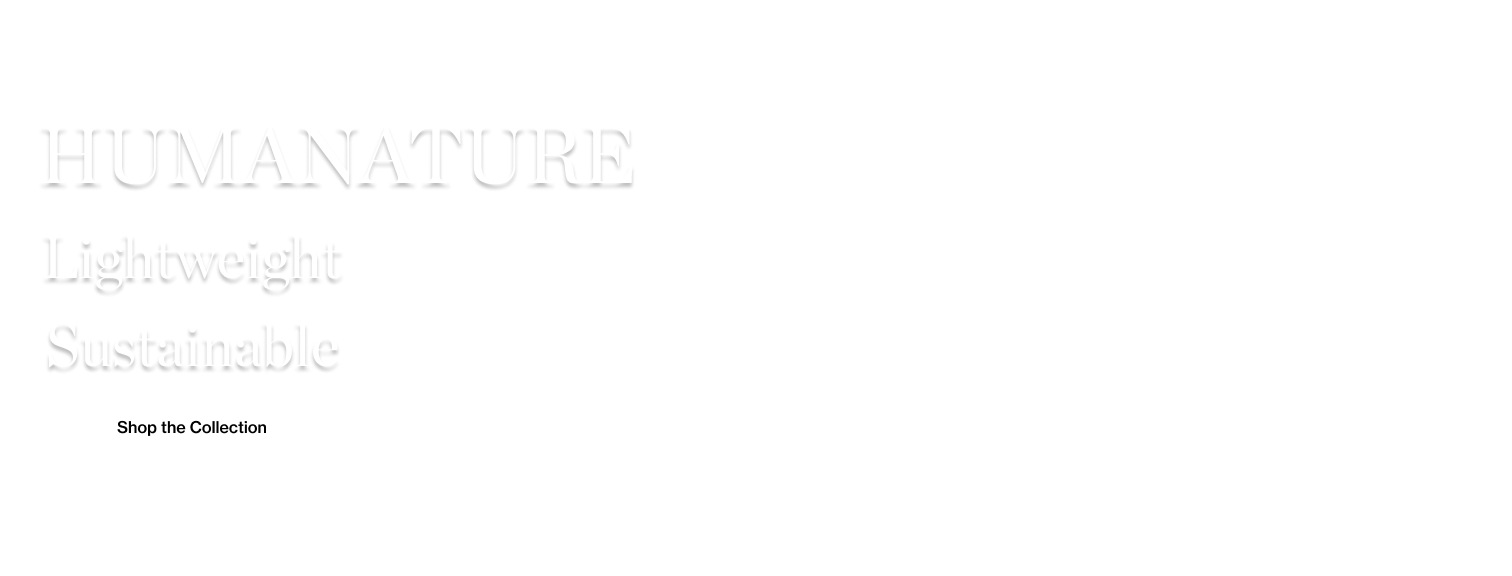
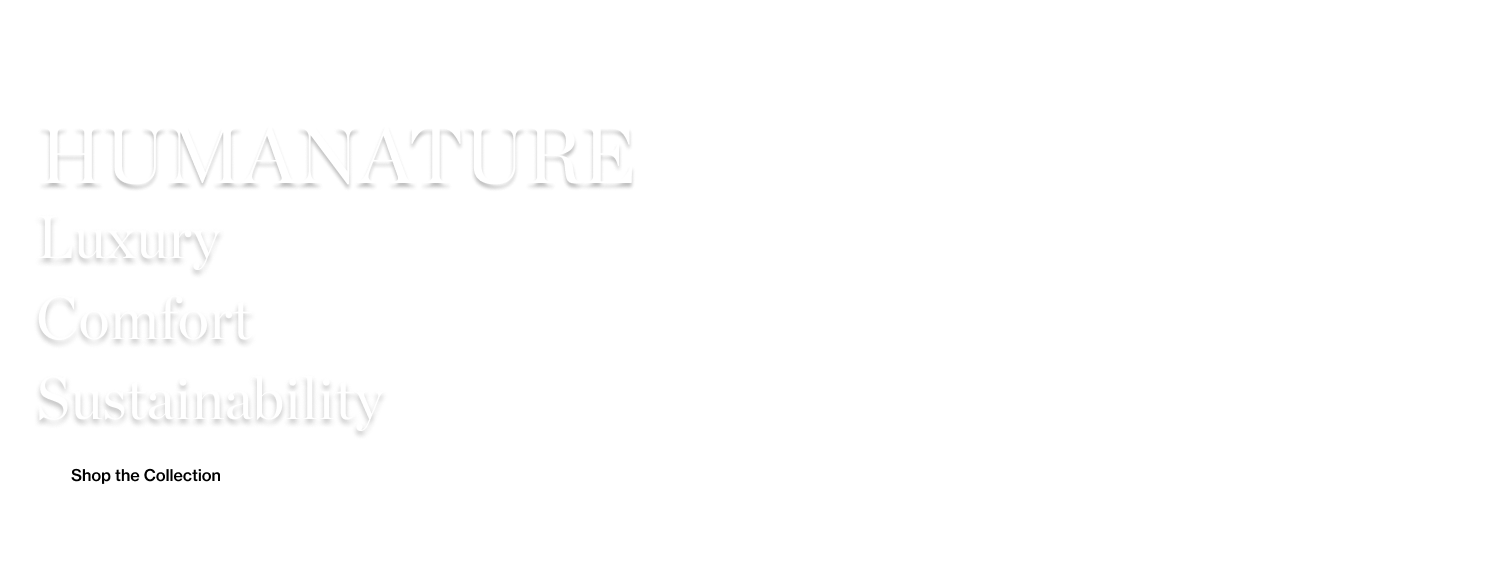
minor changes ux wanted

diff --git a/src/components/HomeHero/HomeHero.js b/src/components/HomeHero/HomeHero.js
@@ -2,18 +2,21 @@ import spring from '../../assets/Images/spring.png'
 import winter from '../../assets/Images/winter.png'
 import './HomeHero.scss'
 import heroText from '../../assets/Images/hero-text.png'
+import winterBtn from '../../assets/Images/winter-btn.png'
+
 
 function HomeHero({ isSpring }) {
     if(isSpring) {
         return ( 
-            <section className="hero hero--spring">
+            <div className="hero hero__spring">
                 <img src={heroText} />
-            </section>
+            </div>
         )
     } else {
         return(
             <>
-                <div className="hero hero--winter">
+                <div className="hero hero__winter">
+                    <img className="hero__winter-btn" src={winterBtn} />
                 </div>            
             </>
         )

diff --git a/src/components/HomeHero/HomeHero.scss b/src/components/HomeHero/HomeHero.scss
@@ -7,14 +7,25 @@
     justify-content: center;
     // padding-left: 32px;
 
-    &--spring {
+    &__spring {
         background: url(../../assets/Images/spring.png) no-repeat;
         width: 100%;
     }
 
-    &--winter {
-        background: url(../../assets/Images/winter.png) no-repeat 67% 50%;
+    &__winter {
+        background: url(../../assets/Images/winter.png) no-repeat 55% 50%;
         width: 100%;
+        flex-direction: row;
+        justify-content: center;
+        align-items: center;
+
+        &-btn {
+            width: 200px;
+            height: 48px;
+            position: relative;
+            top: 171px;
+            left: 138px;
+        }
     }
 
     &::before {
